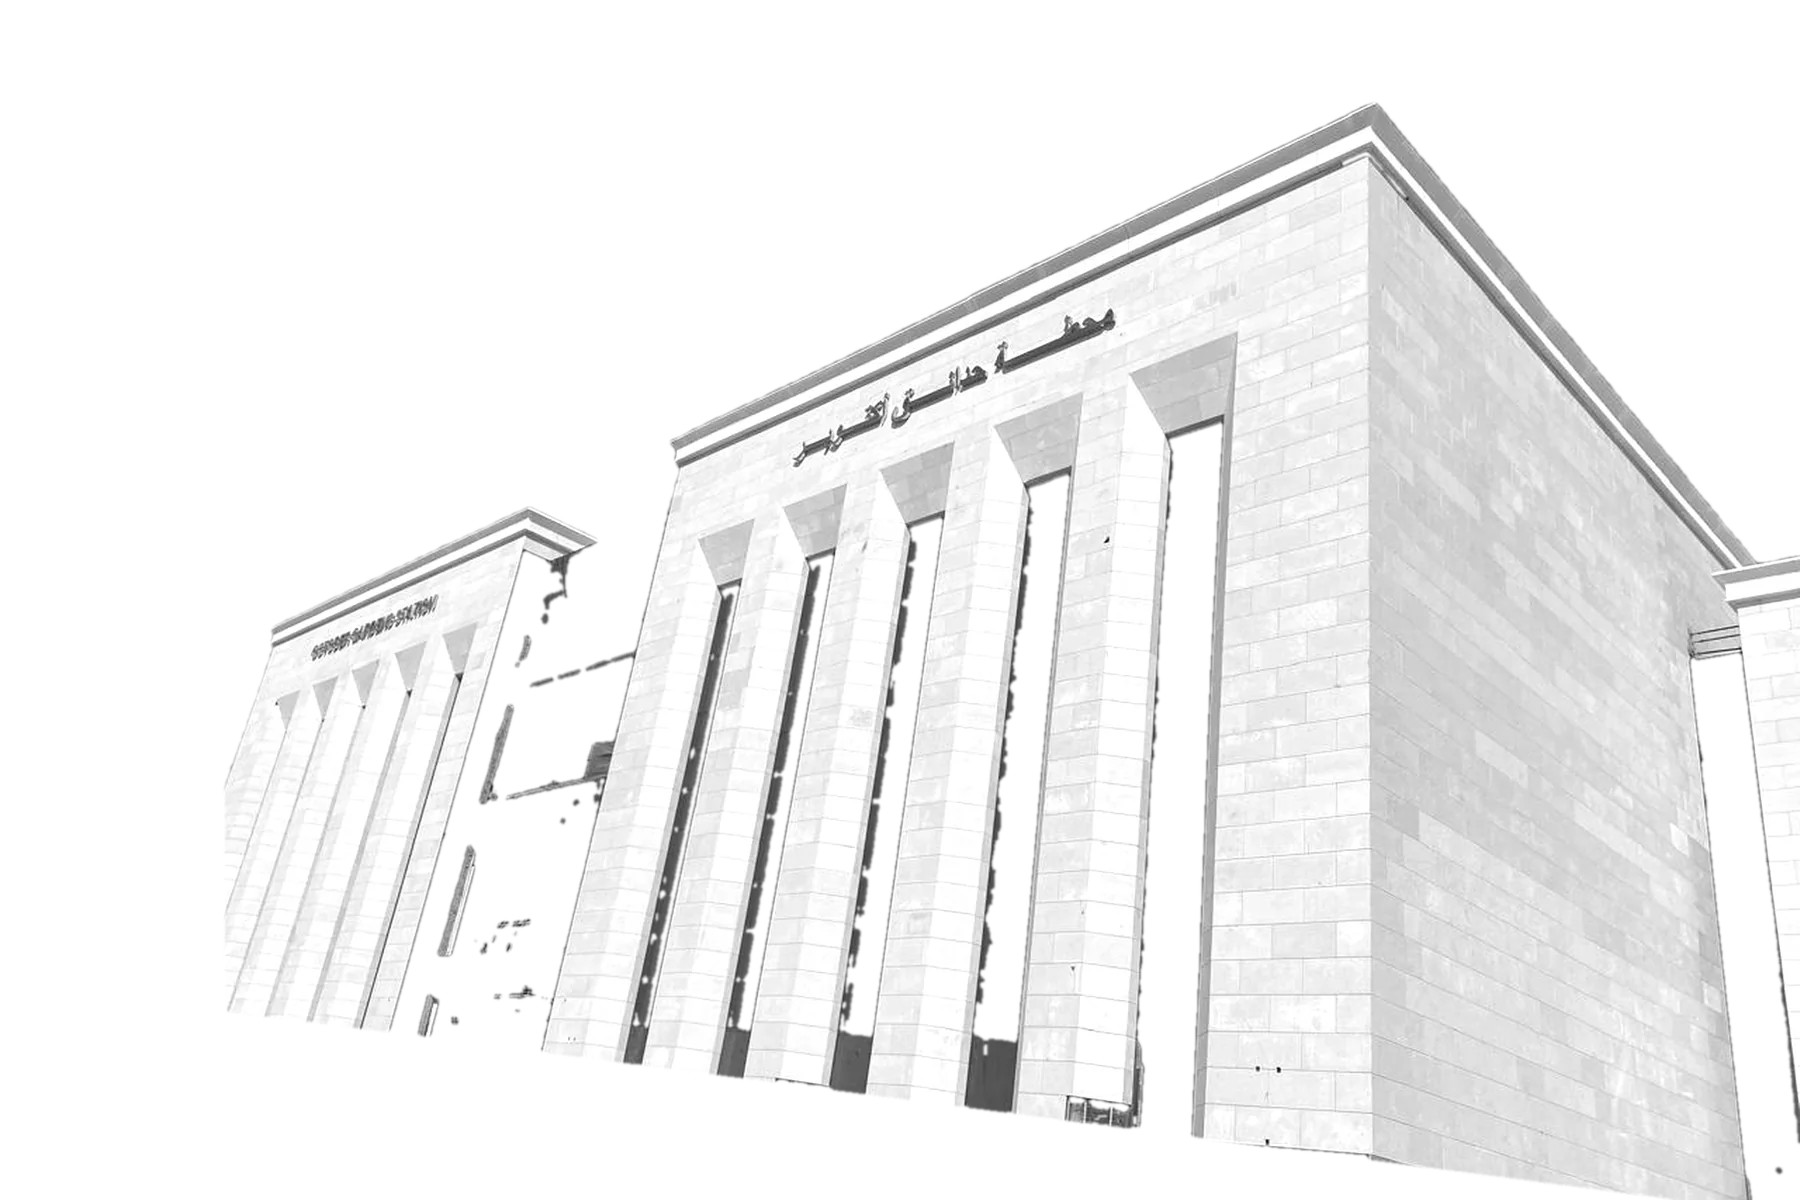
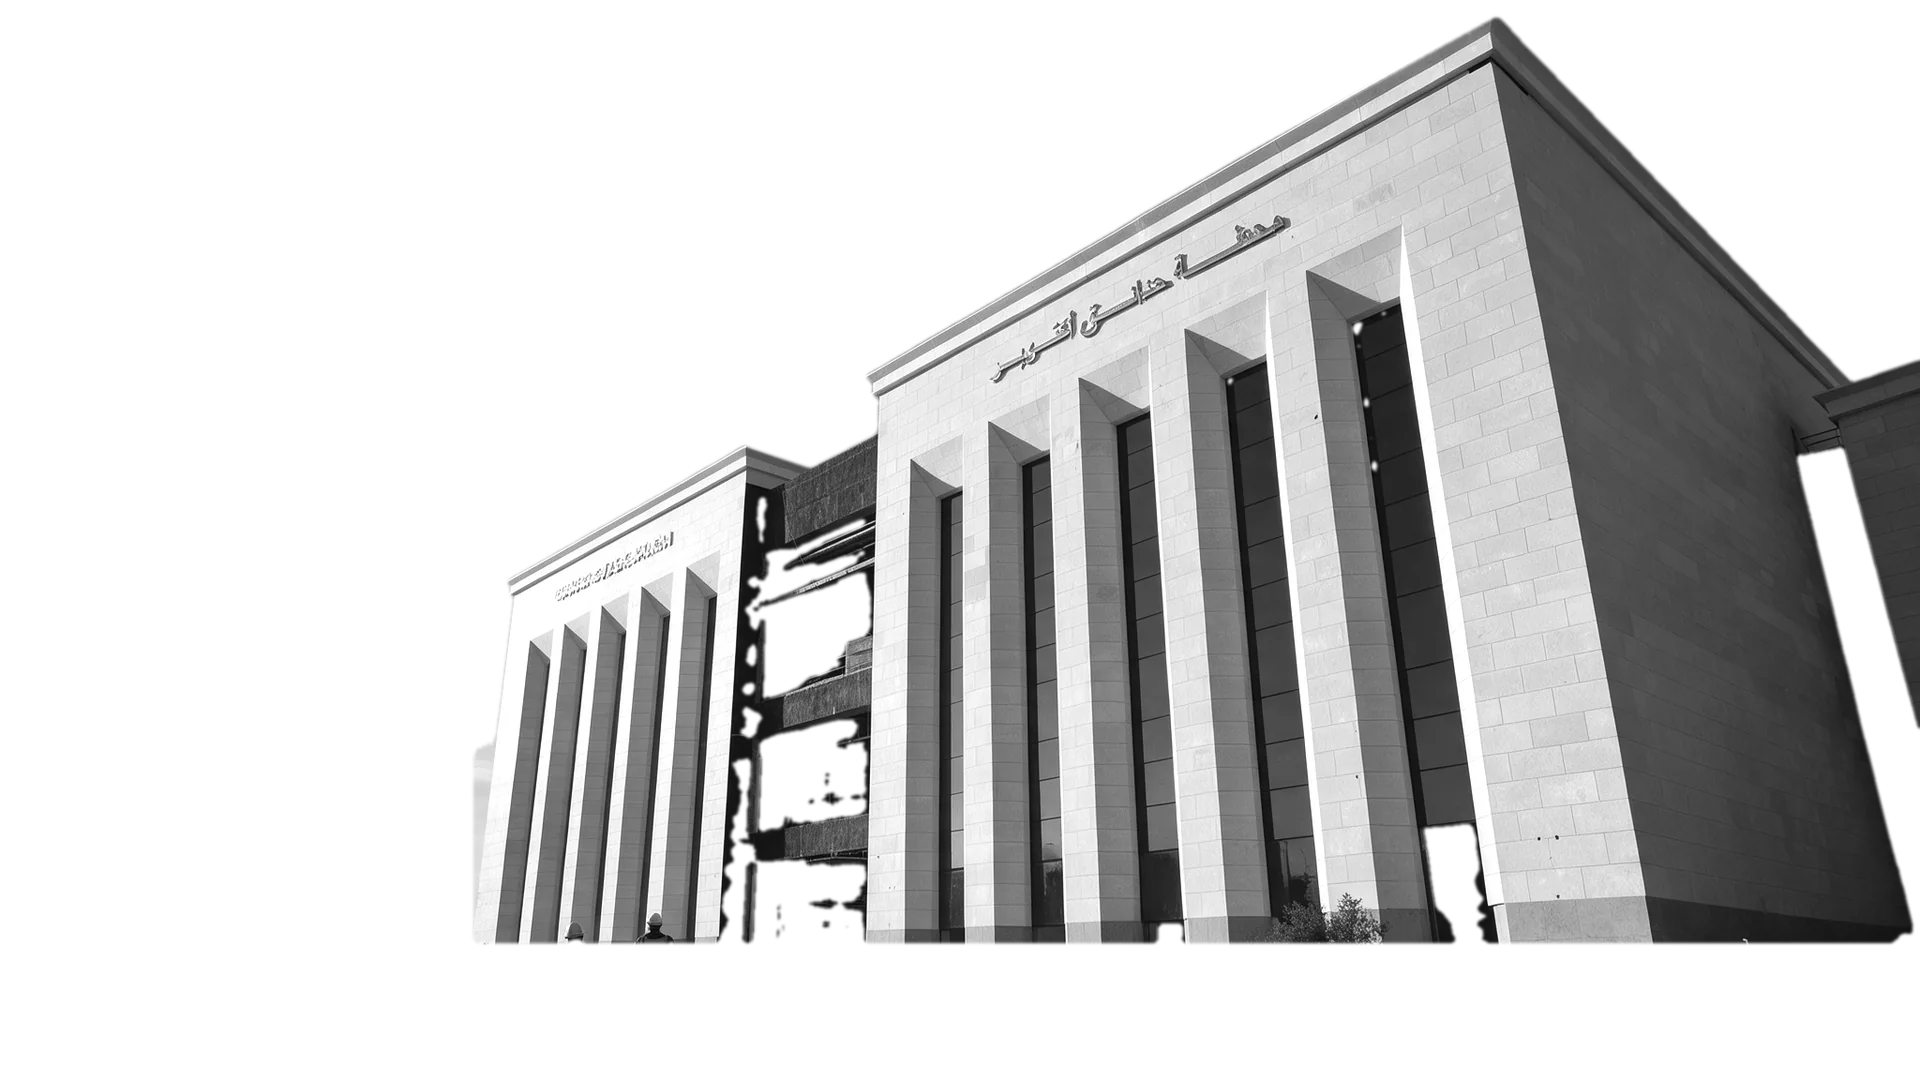
Use demo.png as the visualiser building; fix texture scaling
Swaps the construction-site photo for the golden-hour shot of the same
metro station — wider, landscaped, far more premium. The section moves
from 3:2 to 16:9 to use the full frame.

Re-keying the mask
This photograph is harder than the last one: the sky goes warm at the
horizon, so blue-dominance alone leaves the pale left sky in, and the
glazing reflects gold so neither luminance nor warmth separates it from
stone. Two changes solved it:
- The silhouette is now a per-column roofline (left wing parapet, then
  the right block's two slopes) rather than a pure colour key.
- The glazing is no longer excluded at all. Multiply already preserves
  darkness, so dark glass stays dark and simply takes a hue — only pure
  black is dropped.

Two real bugs found while calibrating
- mask-size was 100% 100%, which stretches, while the photo uses
  object-fit: cover, which crops. They only agreed when the box ratio
  matched the image ratio — so the layers were already drifting apart on
  mobile. Both are cover + center now.
- The tile was sized in absolute pixels, so the same finish looked
  fine-grained on a monitor and boulder-sized on a phone. It is now a
  percentage of the rendered building, computed in JS and refreshed by a
  ResizeObserver. The slider is 5-30% instead of 120-560px.

The greyscale surface (brightness 1.18) and the texture lift (1.05) are
calibrated against each other; the old 1.35 lift clipped the finishes to
[…]

diff --git a/applications.html b/applications.html
@@ -182,7 +182,7 @@
 
         <div class="visualiser__stage" data-reveal>
           <div class="viz" data-viz>
-            <img class="viz__photo" src="assets/visualiser/building.webp" alt="Hadayek October Metro Station — stone-clad elevation used to preview MarmoFiber finishes" width="1800" height="1200" loading="lazy" decoding="async" />
+            <img class="viz__photo" src="assets/visualiser/building.webp" alt="Hadayek October Metro Station at golden hour — the elevation used to preview MarmoFiber finishes" width="1920" height="1080" loading="lazy" decoding="async" />
             <div class="viz__surface" aria-hidden="true"></div>
             <div class="viz__texture" data-viz-texture aria-hidden="true"></div>
 
@@ -302,7 +302,7 @@
             <div class="viz__controls">
               <label class="viz__range">
                 <span>Texture scale</span>
-                <input type="range" min="120" max="560" step="10" value="240" data-viz-scale aria-label="Texture scale" />
+                <input type="range" min="5" max="30" step="1" value="12" data-viz-scale aria-label="Texture scale, as a percentage of the building width" />
               </label>
               <button class="viz__reset" type="button" data-viz-reset disabled>Reset façade</button>
             </div>

diff --git a/css/main.css b/css/main.css
@@ -1883,8 +1883,8 @@ body.nav-open { overflow: hidden; }
   overflow: hidden;
   border: 1px solid var(--line);
   background: var(--charcoal);
-  aspect-ratio: 3 / 2;
-  --viz-tile: 240px;
+  aspect-ratio: 16 / 9;
+  --viz-tile: 12%; /* replaced with a px value by JS, sized off the stage */
 }
 
 .viz__photo,
@@ -1912,13 +1912,15 @@ body.nav-open { overflow: hidden; }
   background-size: var(--viz-tile) var(--viz-tile);
   background-repeat: repeat;
   mix-blend-mode: multiply;
-  filter: brightness(1.35);
+  filter: brightness(1.05); /* calibrated against the surface layer */
   opacity: 0;
   transition: opacity 0.5s var(--ease-soft);
   -webkit-mask-image: url('../assets/visualiser/building-mask.png');
   mask-image: url('../assets/visualiser/building-mask.png');
-  -webkit-mask-size: 100% 100%;
-  mask-size: 100% 100%;
+  -webkit-mask-size: cover;
+  mask-size: cover;
+  -webkit-mask-position: center;
+  mask-position: center;
   -webkit-mask-repeat: no-repeat;
   mask-repeat: no-repeat;
 }

diff --git a/js/main.js b/js/main.js
@@ -558,11 +558,22 @@ function initVisualiser() {
     if (swatch) apply(swatch)
   })
 
-  if (scale) {
-    scale.addEventListener('input', () => {
-      viz.style.setProperty('--viz-tile', `${scale.value}px`)
-    })
+  /**
+   * The tile is sized as a PERCENTAGE of the rendered building, not in absolute
+   * pixels — otherwise the same finish looks fine-grained on a wide monitor and
+   * boulder-sized on a phone. Recomputed whenever the stage resizes.
+   */
+  const applyScale = () => {
+    const pct = Number(scale ? scale.value : 12)
+    const width = viz.getBoundingClientRect().width || 1
+    viz.style.setProperty('--viz-tile', `${Math.round((width * pct) / 100)}px`)
   }
+
+  applyScale()
+  if (scale) scale.addEventListener('input', applyScale)
+  if ('ResizeObserver' in window) new ResizeObserver(applyScale).observe(viz)
+  else window.addEventListener('resize', applyScale)
+
   if (reset) reset.addEventListener('click', clear)
 
   void current

diff --git a/README.md b/README.md
@@ -124,9 +124,15 @@ Three stacked layers do the work:
 | `.viz__texture` | the chosen tile | masked to the same façade and `mix-blend-mode: multiply`, which keeps the building's real sun and shadow |
 
 **Swapping the building:** replace the three files in `assets/visualiser/`.
-The mask is keyed from the photograph — sky by blue dominance, glazing by
-luminance, ground by a diagonal cut — so a new building needs a new mask, not
-just a new photo.
+The mask is keyed from the photograph — a per-column roofline for the silhouette,
+sky removed by blue dominance, ground by a base cut — so a new building needs a
+new mask, not just a new photo. The greyscale surface layer and the texture's
+`filter: brightness()` are calibrated against each other; if you change one,
+re-check a saturated finish and a neutral one side by side.
+
+The tile is sized as a **percentage of the rendered building**, computed in JS
+and refreshed by a `ResizeObserver`. Absolute pixels look fine-grained on a
+monitor and boulder-sized on a phone.
 
 **Adding a finish:** drop the slab photo into `assets/finishes/`, generate a
 512px seamless tile into `tile/` and a 180px thumbnail into `swatch/`, then copy
